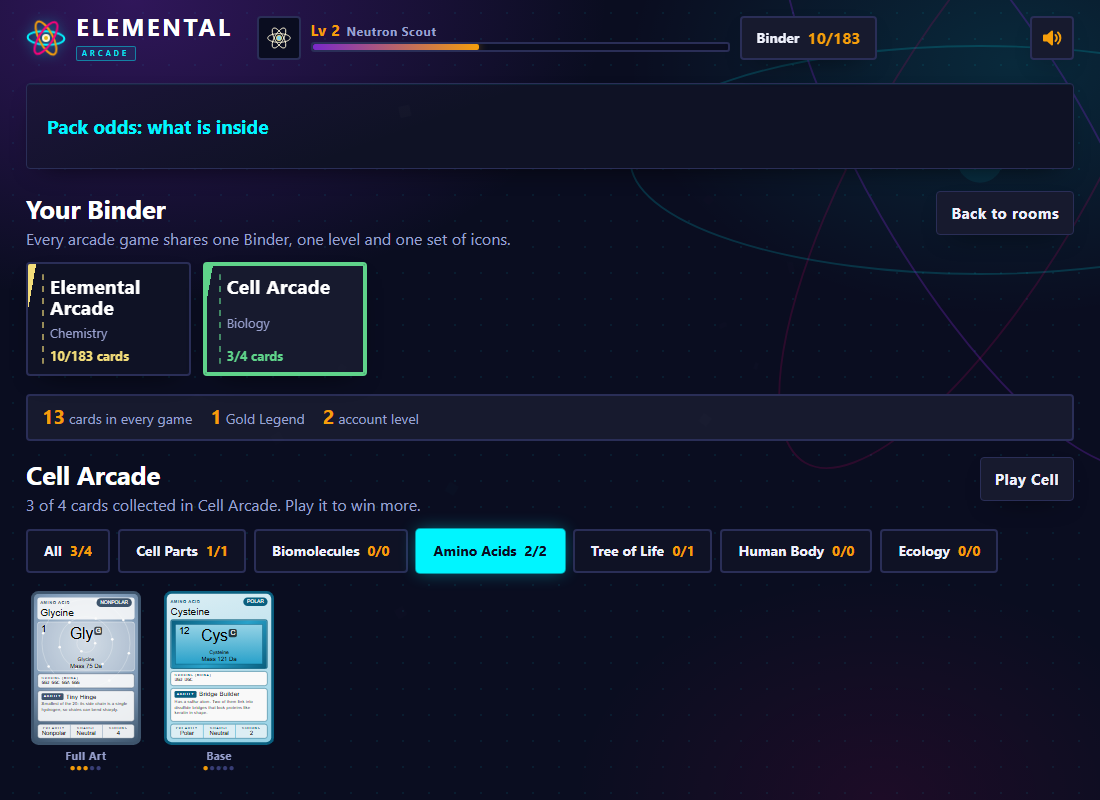
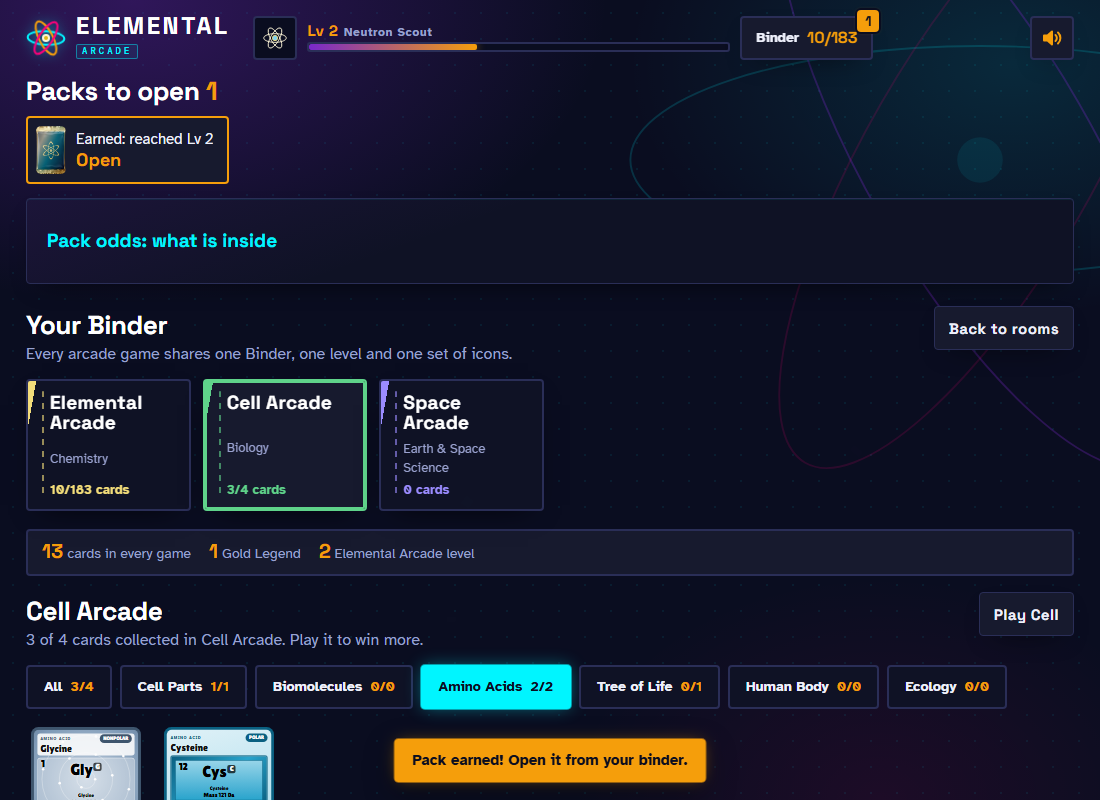
Register Space Arcade (space) in the shared Binder files (BINDER_VERSION 7)
Adds space to GAMES and ICON_SETS (16 free + 34 pack icons, bands 16/10/6/2,
violet spine #9b8cff), to gameIds() and deckRoomOk() in firestore.rules
(icon lists regenerated with tools/sync-rules.mjs), and mirrors it in
tests/fake/rules.js. Bumps binder.js?v=7. The account screen lists games as
"A, B and C". Tests updated for three games.

diff --git a/binder.js b/binder.js
@@ -15,7 +15,7 @@
    It does not import Firebase: cloud.js loads the SDK and hands it over with Binder.init({F, db}). */
 (function (root) {
   'use strict';
-  const BINDER_VERSION = 6;
+  const BINDER_VERSION = 7;
 
   // ---------- registry ----------
   // id: short game id, also the card-id prefix ('bio:org3') and the icon-id prefix ('bio:frog').
@@ -27,7 +27,10 @@
       cats: [['el', 'Elements'], ['cat', 'Cations'], ['an', 'Anions'], ['poly', 'Polyatomic'], ['iso', 'Isotopes']] },
     bio: { id: 'bio', title: 'Cell Arcade', short: 'Cell', subject: 'Biology', color: '#5fd38a',
       url: 'https://apulido305.github.io/cell-arcade/',
-      cats: [['org', 'Cell Parts'], ['mol', 'Biomolecules'], ['aa', 'Amino Acids'], ['life', 'Tree of Life'], ['sys', 'Human Body'], ['eco', 'Ecology']] }
+      cats: [['org', 'Cell Parts'], ['mol', 'Biomolecules'], ['aa', 'Amino Acids'], ['life', 'Tree of Life'], ['sys', 'Human Body'], ['eco', 'Ecology']] },
+    space: { id: 'space', title: 'Space Arcade', short: 'Space', subject: 'Earth & Space Science', color: '#9b8cff',
+      url: 'https://apulido305.github.io/astrological/',
+      cats: [['wx', 'Weather'], ['clm', 'Climate'], ['geo', 'Rocks & Plates'], ['era', 'Deep Time'], ['sol', 'Solar System'], ['sky', 'Sky'], ['star', 'Stars'], ['cos', 'Cosmos'], ['tech', 'Exploration']] }
   };
   Object.keys(GAMES).forEach(k => { GAMES[k].cardsUrl = GAMES[k].url + 'cards.json'; });
   let CURRENT = null;
@@ -65,6 +68,15 @@
         ['bio:jellyfish', 'Jellyfish', 1], ['bio:octopus', 'Octopus', 1], ['bio:chameleon', 'Chameleon', 1], ['bio:koala', 'Koala', 1], ['bio:sloth', 'Sloth', 1], ['bio:hummingbird', 'Hummingbird', 1], ['bio:seahorse', 'Seahorse', 1], ['bio:mantis', 'Mantis', 1], ['bio:flytrap', 'Flytrap', 1], ['bio:coral', 'Coral', 1],
         ['bio:tardigrade', 'Tardigrade', 2], ['bio:narwhal', 'Narwhal', 2], ['bio:whale', 'Whale', 2], ['bio:peacock', 'Peacock', 2], ['bio:firefly', 'Firefly', 2], ['bio:anglerfish', 'Anglerfish', 2],
         ['bio:mammoth', 'Mammoth', 3], ['bio:megalodon', 'Megalodon', 3]]
+    },
+    space: {
+      free: [['space:rocket', 'Rocket'], ['space:comet', 'Comet'], ['space:ringed', 'Ringed Planet'], ['space:crescent', 'Crescent Moon'], ['space:telescope', 'Telescope'], ['space:satellite', 'Satellite'], ['space:helmet', 'Space Helmet'], ['space:rover', 'Rover'],
+        ['space:sun', 'Sun'], ['space:earth', 'Earth'], ['space:cloud', 'Cloud'], ['space:geode', 'Geode'], ['space:snowflake', 'Snowflake'], ['space:lightning', 'Lightning'], ['space:fossil', 'Fossil'], ['space:compass', 'Compass']],
+      pack: [['space:asteroid', 'Asteroid', 0], ['space:meteor', 'Meteor', 0], ['space:crater', 'Crater', 0], ['space:nebula', 'Nebula', 0], ['space:aurora', 'Aurora', 0], ['space:tornado', 'Tornado', 0], ['space:umbrella', 'Umbrella', 0], ['space:thermometer', 'Thermometer', 0],
+        ['space:mountain', 'Mountain', 0], ['space:iceberg', 'Iceberg', 0], ['space:hammer', 'Rock Hammer', 0], ['space:windsock', 'Windsock', 0], ['space:starmap', 'Star Map', 0], ['space:raindrop', 'Raindrop', 0], ['space:crystal', 'Crystal', 0], ['space:cluster', 'Star Cluster', 0],
+        ['space:lander', 'Lander', 1], ['space:probe', 'Space Probe', 1], ['space:station', 'Space Station', 1], ['space:spaceplane', 'Spaceplane', 1], ['space:observatory', 'Observatory', 1], ['space:volcano', 'Volcano', 1], ['space:geyser', 'Geyser', 1], ['space:hurricane', 'Hurricane', 1],
+        ['space:trilobite', 'Trilobite', 1], ['space:eclipse', 'Eclipse', 1], ['space:blackhole', 'Black Hole', 2], ['space:pulsar', 'Pulsar', 2], ['space:supernova', 'Supernova', 2], ['space:spiral', 'Spiral Galaxy', 2], ['space:bluegiant', 'Blue Giant', 2], ['space:icemoon', 'Ice Moon', 2],
+        ['space:heartworld', 'Heart World', 3], ['space:goldenrecord', 'Golden Record', 3]]
     }
   };
   const FREE_ICONS = [], PACK_ICONS = [], ICON_META = {};

diff --git a/index.html b/index.html
@@ -523,7 +523,7 @@ a.btn{text-decoration:none}
 <div id="vs" hidden></div>
 
 <!-- The shared Binder (binder.js, the same file in every arcade game) is a classic script so the game below can use it synchronously. -->
-<script src="binder.js?v=6"></script>
+<script src="binder.js?v=7"></script>
 <script>
 /* ---------- card data (tools/export-cards.mjs exports from here to "profile icons" as cards.json) ---------- */
 const GAME='chem';
@@ -1505,7 +1505,7 @@ function accountHTML(){
   return '<section class="panel auth"><div class="qmeta">Account</div><h1 class="prompt">Save your binder</h1>'+
   '<p class="sub" data-ui="device-summary">On this device: '+gc+' card'+(gc===1?'':'s')+', Lv '+levelInfo(S.xp).lvl+'.</p>'+acctIconHTML()+
   '<p class="sub">'+(up?'Make an account with your class code, a nickname and a PIN.':'Sign in with your nickname and PIN.')+' No email needed. Use a nickname, not your real name.</p>'+
-  '<p class="sub" data-ui="every-game">One account works in every arcade game: '+Object.values(Binder.GAMES).map(g=>esc(g.title)).join(' and ')+'.</p>'+
+  '<p class="sub" data-ui="every-game">One account works in every arcade game: '+Object.values(Binder.GAMES).map(g=>esc(g.title)).join(', ').replace(/, (?=[^,]*$)/,' and ')+'.</p>'+
   '<div class="tabs" role="tablist" style="margin:14px 0"><button class="tab'+(up?'':' on')+'" data-act="authtab" data-id="in">Sign in</button><button class="tab'+(up?' on':'')+'" data-act="authtab" data-id="up">New account</button></div>'+
   '<form id="authform" autocomplete="off"><div class="fields">'+
   (askCls?'<div class="field"><label for="f-cls">Class code</label><input id="f-cls" maxlength="12" autocapitalize="characters" spellcheck="false" value="'+esc(f.cls)+'"><small>'+(up?'Ask your teacher. 3 to 12 letters or numbers.':'The class code you made your account with.')+'</small></div>':'')+

diff --git a/tests/fake/rules.js b/tests/fake/rules.js
@@ -19,15 +19,17 @@ createRequire(import.meta.url)('../../binder.js');   // icon ids and games come 
 const B = globalThis.Binder;
 
 export const CODE_ALPHABET = 'ABCDEFGHJKMNPQRSTUVWXYZ23456789';
-export const GAME_IDS = ['chem', 'bio'];
+export const GAME_IDS = ['chem', 'bio', 'space'];
 // VS decks and rooms per game (rules: deckRoomOk). A match without 'game' is a pre-Binder Elemental match: 'chem'.
 export const DECKS_BY_GAME = {
   chem: ['s20', 'r4', 'r5', 'r6', 'r7', 'e118', 'cat', 'an', 'iso', 'all'],
-  bio: ['s20', 'cell', 'aa', 'tree', 'body', 'eco', 'all']
+  bio: ['s20', 'cell', 'aa', 'tree', 'body', 'eco', 'all'],
+  space: ['s20', 'wx', 'rocks', 'solar', 'stars', 'explore', 'all']
 };
 export const ROOMS_BY_GAME = {
   chem: ['ability', 'symbol', 'number', 'shells', 'config', 'table', 'type', 'lab', 'ion', 'metal', 'mixed'],
-  bio: ['function', 'code', 'codon', 'tree', 'kingdom', 'cellmap', 'plant', 'body', 'mixed']
+  bio: ['function', 'code', 'codon', 'tree', 'kingdom', 'cellmap', 'plant', 'body', 'mixed'],
+  space: ['clue', 'code', 'order', 'solarmap', 'sort', 'layermap', 'rockgas', 'why', 'mixed']
 };
 export const DECK_IDS = DECKS_BY_GAME.chem, ROOM_IDS = ROOMS_BY_GAME.chem;   // this game's
 export const REACTIONS = ['nice', 'hmm', 'fire', 'gg', 'oops'];

diff --git a/tests/specs/ux.spec.js b/tests/specs/ux.spec.js
@@ -28,8 +28,9 @@ for (const w of [PHONE, DESKTOP]) {
     await expect(p.locator('[data-act="mute"]')).toHaveAttribute('aria-label', 'Sound on');
     await expect(p.locator('[data-act="icons"]')).toHaveAttribute('aria-label', 'Change profile icon');
     await expect(p.locator('[data-ui="site-link"] a').first()).toHaveAttribute('href', 'https://mrpulido.com');
-    await expect(p.locator('[data-ui="game-link"]')).toHaveText('Play Cell Arcade →');
-    await expect(p.locator('[data-ui="game-link"]')).toHaveAttribute('href', 'https://apulido305.github.io/cell-arcade/');
+    await expect(p.locator('[data-ui="game-link"]')).toHaveText(['Play Cell Arcade →', 'Play Space Arcade →']);   // the other games in the Binder
+    await expect(p.locator('[data-ui="game-link"]').first()).toHaveAttribute('href', 'https://apulido305.github.io/cell-arcade/');
+    await expect(p.locator('[data-ui="game-link"]').nth(1)).toHaveAttribute('href', 'https://apulido305.github.io/astrological/');
     expect(await layoutProblems(p)).toEqual([]);
     const m = await p.evaluate(() => ({ header: document.querySelector('.top').getBoundingClientRect().height, page: document.documentElement.scrollHeight }));
     if (w === PHONE) expect(m.header).toBeLessThanOrEqual(120);

diff --git a/tests/specs/shared-project.spec.js b/tests/specs/shared-project.spec.js
@@ -79,7 +79,7 @@ test.describe('accounts', () => {
     const dev = await arena.device({ width: PHONE }), p = dev.page;
     await dev.goto('/');
     await p.click('[data-act="account"]');
-    await expect(p.locator('[data-ui="every-game"]')).toContainText('One account works in every arcade game: Elemental Arcade and Cell Arcade.');
+    await expect(p.locator('[data-ui="every-game"]')).toContainText('One account works in every arcade game: Elemental Arcade, Cell Arcade and Space Arcade.');
     await p.click('[data-act="authtab"][data-id="up"]');
     await p.fill('#f-cls', 'class1'); await p.fill('#f-nick', 'cy'); await p.fill('#f-pin', '5555');
     await p.click('#authform button[type="submit"]');
